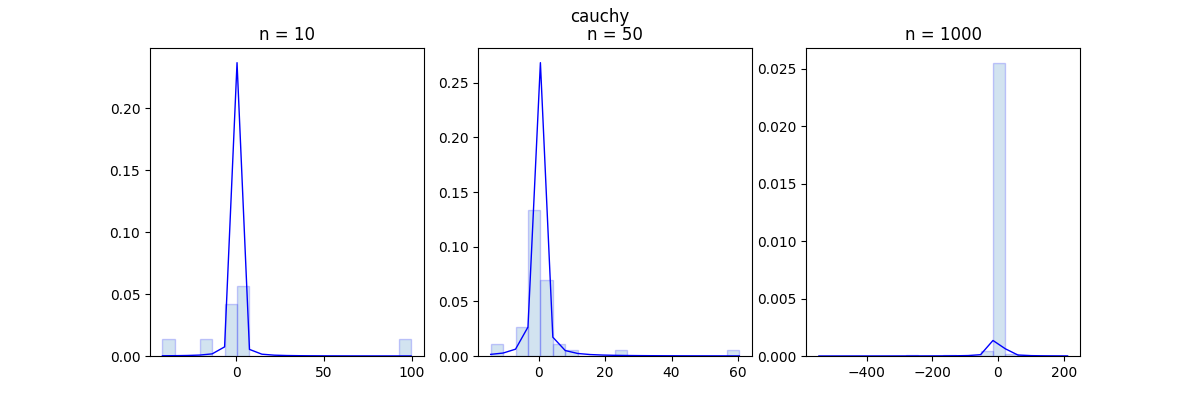
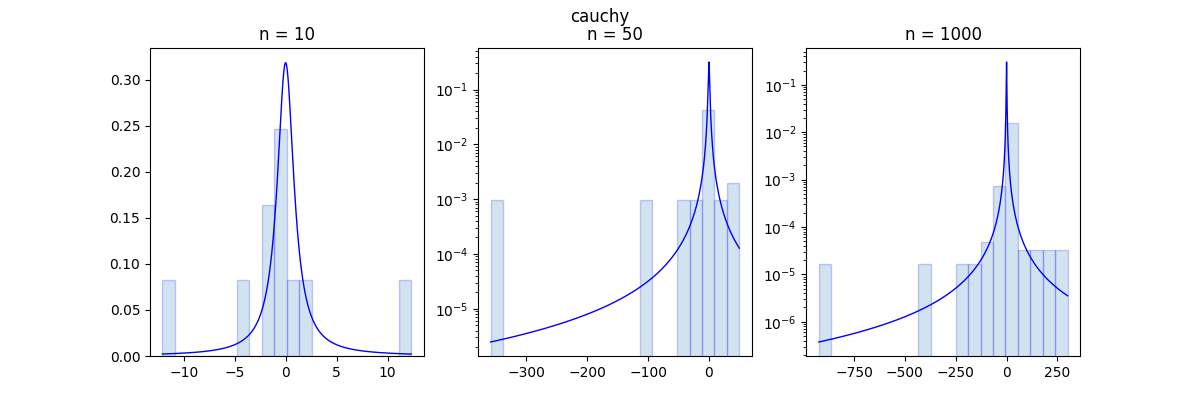
refactor lab_1

diff --git a/Task_1/lab_1.py b/Task_1/lab_1.py
@@ -1,4 +1,5 @@
 import matplotlib.pyplot as plt
+import numpy as np
 from utils import get_distribution, get_density, types
 
 num_bins = 20
@@ -11,8 +12,13 @@ def plot_hist():
         fig.suptitle(name)
         for i in range(len(sizes)):
             array = get_distribution(name, sizes[i])
-            n, bins, patches = ax[i].hist(array, num_bins, density=True, edgecolor='blue', alpha=0.2)
-            ax[i].plot(bins, get_density(name, bins), color='blue', linewidth=1)
+            ax[i].hist(array, num_bins, density=True, edgecolor='blue', alpha=0.2)
+
+            if name == 'cauchy' and (sizes[i] == 50 or sizes[i] == 1000):
+                ax[i].set_yscale('log')
+
+            x = np.linspace(min(array), max(array), 1000)
+            ax[i].plot(x, get_density(name, x), color='blue', linewidth=1)
             ax[i].set_title("n = " + str(sizes[i]))
         plt.show()
 
